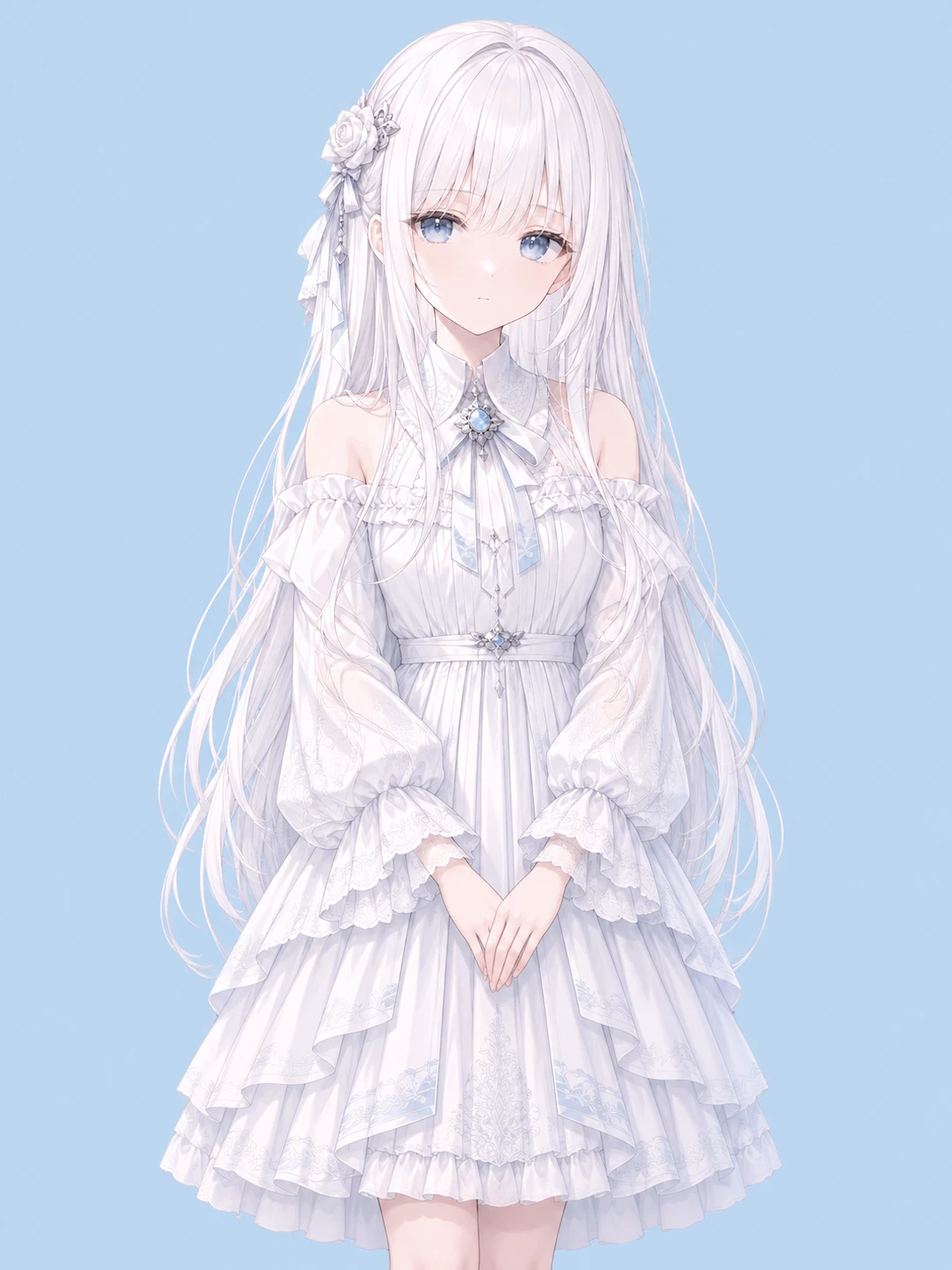
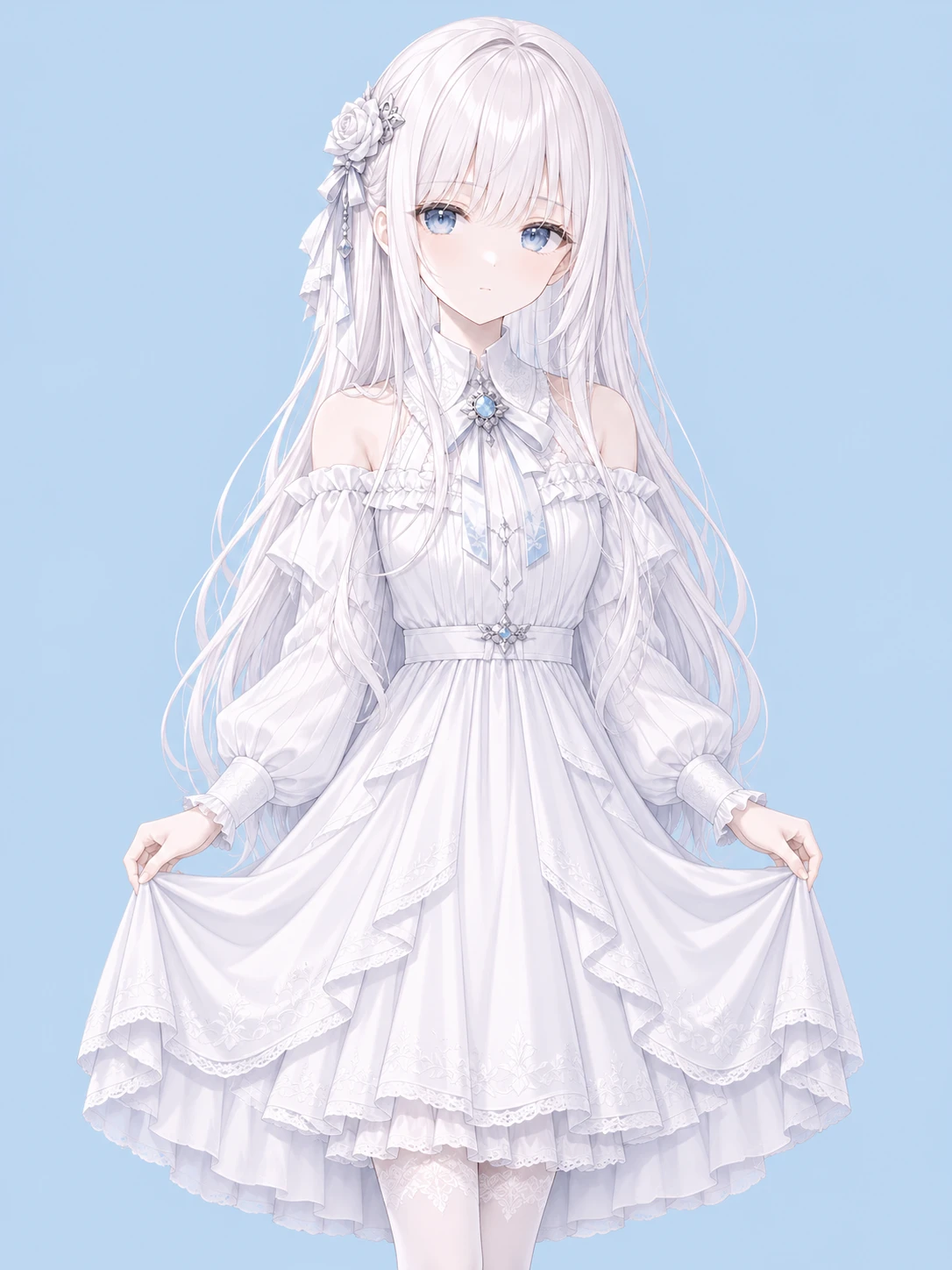
chore(preview): publish batch_10chars_tq portrait picker

Changed region(s): [[0.0608, 0.0311, 0.9116, 1.0], [0.4862, 0.0, 0.6077, 0.0932]]

diff --git a/portrait-picker/index.html b/portrait-picker/index.html
@@ -3,7 +3,7 @@
 <head>
 <meta charset="UTF-8">
 <meta name="viewport" content="width=device-width, initial-scale=1.0">
-<title>四分之三身像全重抽（5 角色 × 5 选 1）</title>
+<title>核心角色 10 组 × 5 选 1（四分之三身像 · 共 50 张）</title>
 <style>
 /* ==========================================================================
    《转生千金》立绘 5 选 1 交互审图工坊 · 棱镜冰晶雪瓷视觉体系
@@ -2172,7 +2172,7 @@ body.view-large .btn-zoom .zoom-txt {
 
 <div class="toast" id="toast" role="status" aria-live="polite"></div>
 
-<script id="showcase-data" type="application/json">{"batch_id":"batch_1_tq_5chars","batch_label":"四分之三身像 · 5角×5选1","title":"四分之三身像全重抽（5 角色 × 5 选 1）","subtitle":"统一 three-quarter length portrait 纯正向提示词 · 全量 5 角色 25 候选（含同源少年期）","characters":[{"id":"sylvia_teenage_normal","name":"希尔维亚 · 少女期","role_tag":"核心女主 · 少女阶段","sample_line":"既然重活一世，这一生总该按自己的步调，悠闲地过日子才对。","original":{"src":"img/sylvia_teenage_normal/original.webp","defect":"原图仅到束腰上半截，左右披发与白袖硬裁","metrics":{"width":1086,"height":1448,"aspect":"3:4","margin_l":0.0,"margin_r":0.0,"margin_t":2.3,"margin_b":0.0,"bg_std":0.0,"bg_hex":"transparent","is_transparent":true}},"candidates":[{"index":1,"label":"#01","src":"img/sylvia_teenage_normal/cand_01.webp","tag":"四分之三身像 #01","note":"纯正向 three-quarter length portrait 四分之三身像自然延展","metrics":{"width":1086,"height":1448,"aspect":"3:4","margin_l":15.4,"margin_r":15.4,"margin_t":1.3,"margin_b":0.0,"bg_std":0.6,"bg_hex":"#BCD6EF","is_transparent":false}},{"index":2,"label":"#02","src":"img/sylvia_teenage_normal/cand_02.webp","tag":"四分之三身像 #02","note":"纯正向 three-quarter length portrait 四分之三身像自然延展","metrics":{"width":1086,"height":1448,"aspect":"3:4","margin_l":16.3,"margin_r":15.6,"margin_t":1.1,"margin_b":0.0,"bg_std":0.7,"bg_hex":"#BAD6EF","is_transparent":false}},{"index":3,"label":"#03","src":"img/sylvia_teenage_normal/cand_03.webp","tag":"四分之三身像 #03","note":"纯正向 three-quarter length portrait 四分之三身像自然延展","metrics":{"width":1086,"height":1448,"aspect":"3:4","margin_l":17.2,"margin_r":16.3,"margin_t":2.1,"margin_b":0.0,"bg_std":0.6,"bg_hex":"#BCD7F1","is_transparent":false}},{"index":4,"label":"#04","src":"img/sylvia_teenage_normal/cand_04.webp","tag":"四分之三身像 #04","note":"纯正向 three-quarter length portrait 四分之三身像自然延展","metrics":{"width":1086,"height":1448,"aspect":"3:4","margin_l":12.4,"margin_r":12.8,"margin_t":1.4,"margin_b":0.0,"bg_std":0.6,"bg_hex":"#BAD7F1","is_transparent":false}},{"index":5,"label":"#05","src":"img/sylvia_teenage_normal/cand_05.webp","tag":"四分之三身像 #05","note":"纯正向 three-quarter length portrait 四分之三身像自然延展","metrics":{"width":1086,"height":1448,"aspect":"3:4","margin_l":17.2,"margin_r":16.5,"margin_t":1.8,"margin_b":0.0,"bg_std":0.6,"bg_hex":"#B9D5F0","is_transparent":false}}]},{"id":"alice_teenage_normal","name":"爱丽丝 · 少女期","role_tag":"公爵次女 · 少女阶段","sample_line":"姐姐，今天的风有些凉，披肩记得系紧些再出门。","original":{"src":"img/alice_teenage_normal/original.webp","defect":"原图仅胸上/高腰裁切，白纱蓬袖逼近左右边界","metrics":{"width":1086,"height":1448,"aspect":"3:4","margin_l":1.5,"margin_r":2.4,"margin_t":4.3,"margin_b":0.0,"bg_std":0.0,"bg_hex":"transparent","is_transparent":true}},"candidates":[{"index":1,"label":"#01","src":"img/alice_teenage_normal/cand_01.webp","tag":"四分之三身像 #01","note":"纯正向 three-quarter length portrait 四分之三身像自然延展","metrics":{"width":1086,"height":1448,"aspect":"3:4","margin_l":16.6,"margin_r":17.7,"margin_t":1.5,"margin_b":0.0,"bg_std":0.6,"bg_hex":"#BCD6F1","is_transparent":false}},{"index":2,"label":"#02","src":"img/alice_teenage_normal/cand_02.webp","tag":"四分之三身像 #02","note":"纯正向 three-quarter length portrait 四分之三身像自然延展","metrics":{"width":1086,"height":1448,"aspect":"3:4","margin_l":14.8,"margin_r":15.6,"margin_t":1.2,"margin_b":0.0,"bg_std":0.6,"bg_hex":"#BED8F0","is_transparent":false}},{"index":3,"label":"#03","src":"img/alice_teenage_normal/cand_03.webp","tag":"四分之三身像 #03","note":"纯正向 three-quarter length portrait 四分之三身像自然延展","metrics":{"width":1086,"height":1448,"aspect":"3:4","margin_l":15.1,"margin_r":16.7,"margin_t":1.2,"margin_b":0.0,"bg_std":0.6,"bg_hex":"#BED7F0","is_transparent":false}},{"index":4,"label":"#04","src":"img/alice_teenage_normal/cand_04.webp","tag":"四分之三身像 #04","note":"纯正向 three-quarter length portrait 四分之三身像自然延展","metrics":{"width":1086,"height":1448,"aspect":"3:4","margin_l":14.9,"margin_r":16.3,"margin_t":2.1,"margin_b":0.0,"bg_std":0.6,"bg_hex":"#BFD7F0","is_transparent":false}},{"index":5,"label":"#05","src":"img/alice_teenage_normal/cand_05.webp","tag":"四分之三身像 #05","note":"纯正向 three-quarter length portrait 四分之三身像自然延展","metrics":{"width":1086,"height":1448,"aspect":"3:4","margin_l":15.0,"margin_r":15.7,"margin_t":1.5,"margin_b":0.0,"bg_std":0.6,"bg_hex":"#BED8F1","is_transparent":false}}]},{"id":"beatrice_teenage_normal","name":"贝阿特丽丝 · 少女期","role_tag":"公爵长女 · 少女阶段","sample_line":"哈哈，既然是学院比试，可不许对我手下留情哦！","original":{"src":"img/beatrice_teenage_normal/original.webp","defect":"原图为 1:1 方画幅，顶边仅 4px 险切高马尾与王冠，腰下与双袖斜切","metrics":{"width":1254,"height":1254,"aspect":"1:1","margin_l":12.4,"margin_r":5.7,"margin_t":0.4,"margin_b":0.0,"bg_std":0.0,"bg_hex":"transparent","is_transparent":true}},"candidates":[{"index":1,"label":"#01","src":"img/beatrice_teenage_normal/cand_01.webp","tag":"四分之三身像 #01","note":"纯正向 three-quarter length portrait 四分之三身像自然延展（顶边+6%防切王冠）","metrics":{"width":1086,"height":1448,"aspect":"3:4","margin_l":14.0,"margin_r":9.9,"margin_t":2.8,"margin_b":0.0,"bg_std":0.6,"bg_hex":"#E1D4BF","is_transparent":false}},{"index":2,"label":"#02","src":"img/beatrice_teenage_normal/cand_02.webp","tag":"四分之三身像 #02","note":"纯正向 three-quarter length portrait 四分之三身像自然延展（顶边+6%防切王冠）","metrics":{"width":1086,"height":1448,"aspect":"3:4","margin_l":6.7,"margin_r":6.0,"margin_t":2.9,"margin_b":0.0,"bg_std":0.6,"bg_hex":"#E1D3BE","is_transparent":false}},{"index":3,"label":"#03","src":"img/beatrice_teenage_normal/cand_03.webp","tag":"四分之三身像 #03","note":"纯正向 three-quarter length portrait 四分之三身像自然延展（顶边+6%防切王冠）","metrics":{"width":1086,"height":1448,"aspect":"3:4","margin_l":8.7,"margin_r":13.4,"margin_t":3.0,"margin_b":0.0,"bg_std":0.7,"bg_hex":"#E1D3BE","is_transparent":false}},{"index":4,"label":"#04","src":"img/beatrice_teenage_normal/cand_04.webp","tag":"四分之三身像 #04","note":"纯正向 three-quarter length portrait 四分之三身像自然延展（顶边+6%防切王冠）","metrics":{"width":1086,"height":1448,"aspect":"3:4","margin_l":10.6,"margin_r":13.7,"margin_t":2.7,"margin_b":0.0,"bg_std":0.7,"bg_hex":"#E1D3BF","is_transparent":false}},{"index":5,"label":"#05","src":"img/beatrice_teenage_normal/cand_05.webp","tag":"四分之三身像 #05","note":"纯正向 three-quarter length portrait 四分之三身像自然延展（顶边+6%防切王冠）","metrics":{"width":1086,"height":1448,"aspect":"3:4","margin_l":10.5,"margin_r":11.0,"margin_t":3.1,"margin_b":0.0,"bg_std":0.7,"bg_hex":"#E0D3BE","is_transparent":false}}]},{"id":"sylvia_young_normal","name":"希尔维亚 · 少年期","role_tag":"核心女主 · 少年阶段","sample_line":"冰晶的魔力回路其实很听话，只要静下心来引导就好。","original":{"src":"img/sylvia_young_normal/original.webp","defect":"原图仅到腰下，左右飘散银发丝与披肩边缘紧贴画框","metrics":{"width":1086,"height":1448,"aspect":"3:4","margin_l":1.5,"margin_r":1.8,"margin_t":2.9,"margin_b":0.0,"bg_std":0.0,"bg_hex":"transparent","is_transparent":true}},"candidates":[{"index":1,"label":"#01","src":"img/sylvia_young_normal/cand_01.webp","tag":"四分之三身像 #01","note":"纯正向 three-quarter length portrait 四分之三身像自然延展（同源直引）","metrics":{"width":1086,"height":1448,"aspect":"3:4","margin_l":16.0,"margin_r":18.5,"margin_t":2.1,"margin_b":0.0,"bg_std":0.6,"bg_hex":"#C0DAF3","is_transparent":false}},{"index":2,"label":"#02","src":"img/sylvia_young_normal/cand_02.webp","tag":"四分之三身像 #02","note":"纯正向 three-quarter length portrait 四分之三身像自然延展（同源直引）","metrics":{"width":1086,"height":1448,"aspect":"3:4","margin_l":14.7,"margin_r":16.8,"margin_t":1.9,"margin_b":0.0,"bg_std":0.6,"bg_hex":"#C1DAF4","is_transparent":false}},{"index":3,"label":"#03","src":"img/sylvia_young_normal/cand_03.webp","tag":"四分之三身像 #03","note":"纯正向 three-quarter length portrait 四分之三身像自然延展（同源直引）","metrics":{"width":1086,"height":1448,"aspect":"3:4","margin_l":15.9,"margin_r":17.3,"margin_t":1.9,"margin_b":0.0,"bg_std":0.6,"bg_hex":"#C2DAF1","is_transparent":false}},{"index":4,"label":"#04","src":"img/sylvia_young_normal/cand_04.webp","tag":"四分之三身像 #04","note":"纯正向 three-quarter length portrait 四分之三身像自然延展（同源直引）","metrics":{"width":1086,"height":1448,"aspect":"3:4","margin_l":13.0,"margin_r":15.0,"margin_t":1.8,"margin_b":0.0,"bg_std":0.6,"bg_hex":"#C0DAF2","is_transparent":false}},{"index":5,"label":"#05","src":"img/sylvia_young_normal/cand_05.webp","tag":"四分之三身像 #05","note":"纯正向 three-quarter length portrait 四分之三身像自然延展（同源直引）","metrics":{"width":1086,"height":1448,"aspect":"3:4","margin_l":14.5,"margin_r":17.9,"margin_t":2.0,"margin_b":0.0,"bg_std":0.6,"bg_hex":"#BFD9F3","is_transparent":false}}]},{"id":"sylvia_disguise_normal","name":"希尔维亚 · 伪装（眷寒渔）","role_tag":"核心女主 · 黑发绿瞳变装","sample_line":"在外行走，还是低调些省事。叫我寒渔就行。","original":{"src":"img/sylvia_disguise_normal/original.webp","defect":"原图为 573×768 低分索引色 PNG，锯齿明显且左右黑发硬裁","metrics":{"width":573,"height":768,"aspect":"3:4","margin_l":0.0,"margin_r":0.0,"margin_t":2.3,"margin_b":0.0,"bg_std":0.0,"bg_hex":"transparent","is_transparent":true}},"candidates":[{"index":1,"label":"#01","src":"img/sylvia_disguise_normal/cand_01.webp","tag":"四分之三身像 #01","note":"纯正向 three-quarter length portrait 四分之三身像延展 · 2× 高清化重绘","metrics":{"width":1086,"height":1448,"aspect":"3:4","margin_l":21.6,"margin_r":22.7,"margin_t":1.7,"margin_b":0.0,"bg_std":0.6,"bg_hex":"#D5DFE7","is_transparent":false}},{"index":2,"label":"#02","src":"img/sylvia_disguise_normal/cand_02.webp","tag":"四分之三身像 #02","note":"纯正向 three-quarter length portrait 四分之三身像延展 · 2× 高清化重绘","metrics":{"width":1086,"height":1448,"aspect":"3:4","margin_l":18.4,"margin_r":19.4,"margin_t":2.0,"margin_b":0.0,"bg_std":0.6,"bg_hex":"#D4DFE7","is_transparent":false}},{"index":3,"label":"#03","src":"img/sylvia_disguise_normal/cand_03.webp","tag":"四分之三身像 #03","note":"纯正向 three-quarter length portrait 四分之三身像延展 · 2× 高清化重绘","metrics":{"width":1086,"height":1448,"aspect":"3:4","margin_l":18.6,"margin_r":19.3,"margin_t":1.7,"margin_b":0.0,"bg_std":0.6,"bg_hex":"#D5DFE7","is_transparent":false}},{"index":4,"label":"#04","src":"img/sylvia_disguise_normal/cand_04.webp","tag":"四分之三身像 #04","note":"纯正向 three-quarter length portrait 四分之三身像延展 · 2× 高清化重绘","metrics":{"width":1086,"height":1448,"aspect":"3:4","margin_l":19.2,"margin_r":16.9,"margin_t":1.5,"margin_b":0.0,"bg_std":0.6,"bg_hex":"#D1DEE6","is_transparent":false}},{"index":5,"label":"#05","src":"img/sylvia_disguise_normal/cand_05.webp","tag":"四分之三身像 #05","note":"纯正向 three-quarter length portrait 四分之三身像延展 · 2× 高清化重绘","metrics":{"width":1086,"height":1448,"aspect":"3:4","margin_l":18.1,"margin_r":19.8,"margin_t":1.2,"margin_b":0.0,"bg_std":0.6,"bg_hex":"#D4DFE6","is_transparent":false}}]}]}</script>
+<script id="showcase-data" type="application/json">{"batch_id":"batch_10chars_tq","batch_label":"10 角色 × 5 抽（50 张）","title":"核心角色 10 组 × 5 选 1（四分之三身像 · 共 50 张）","subtitle":"统一极简纯正向 three-quarter length portrait · 含爱丽丝小幅提裙礼、伪装希尔维亚纯文生图、幼童 4.5 头身与夏洛特去女仆单人化","characters":[{"id":"alice_teenage_normal","name":"爱丽丝 · 少女期","role_tag":"公爵次女 · 少女阶段（小幅提裙礼）","sample_line":"姐姐，今天的风有些凉，披肩记得系紧些再出门。","original":{"src":"img/alice_teenage_normal/original.webp","defect":"原图仅胸上/高腰裁切，白纱蓬袖逼近左右边界","metrics":{"width":1086,"height":1448,"aspect":"3:4","margin_l":1.5,"margin_r":2.4,"margin_t":4.3,"margin_b":0.0,"bg_std":0.0,"bg_hex":"transparent","is_transparent":true}},"candidates":[{"index":1,"label":"#01","src":"img/alice_teenage_normal/cand_01.webp","tag":"小幅双手提裙 #01","note":"优雅小幅度双手轻提裙侧，保持挺拔站姿","metrics":{"width":1086,"height":1448,"aspect":"3:4","margin_l":8.1,"margin_r":9.3,"margin_t":1.3,"margin_b":0.0,"bg_std":0.6,"bg_hex":"#BDD7F1","is_transparent":false}},{"index":2,"label":"#02","src":"img/alice_teenage_normal/cand_02.webp","tag":"小幅双手提裙 #02","note":"优雅小幅度双手轻提裙侧，保持挺拔站姿","metrics":{"width":1086,"height":1448,"aspect":"3:4","margin_l":16.9,"margin_r":16.8,"margin_t":1.4,"margin_b":1.5,"bg_std":0.6,"bg_hex":"#BAD6F0","is_transparent":false}},{"index":3,"label":"#03","src":"img/alice_teenage_normal/cand_03.webp","tag":"小幅双手提裙 #03","note":"优雅小幅度双手轻提裙侧，保持挺拔站姿","metrics":{"width":1086,"height":1448,"aspect":"3:4","margin_l":6.5,"margin_r":8.7,"margin_t":2.6,"margin_b":0.0,"bg_std":0.6,"bg_hex":"#BCD6EF","is_transparent":false}},{"index":4,"label":"#04","src":"img/alice_teenage_normal/cand_04.webp","tag":"小幅单手提裙 #04","note":"优雅小幅度单手轻提裙侧，另一臂自然垂落","metrics":{"width":1086,"height":1448,"aspect":"3:4","margin_l":15.7,"margin_r":25.3,"margin_t":1.9,"margin_b":1.2,"bg_std":0.7,"bg_hex":"#BBD5EF","is_transparent":false}},{"index":5,"label":"#05","src":"img/alice_teenage_normal/cand_05.webp","tag":"小幅单手提裙 #05","note":"优雅小幅度单手轻提裙侧，另一臂自然垂落","metrics":{"width":1086,"height":1448,"aspect":"3:4","margin_l":13.7,"margin_r":20.9,"margin_t":1.0,"margin_b":0.8,"bg_std":0.6,"bg_hex":"#BDD6EF","is_transparent":false}}]},{"id":"sylvia_disguise_normal","name":"希尔维亚 · 伪装（眷寒渔）","role_tag":"核心女主 · 黑发绿瞳变装（纯文生图高清重绘）","sample_line":"在外行走，还是低调些省事。叫我寒渔就行。","original":{"src":"img/sylvia_disguise_normal/original.webp","defect":"原图为 573×768 低分索引色 PNG，锯齿明显且左右黑发硬裁","metrics":{"width":573,"height":768,"aspect":"3:4","margin_l":0.0,"margin_r":0.0,"margin_t":2.3,"margin_b":0.0,"bg_std":0.0,"bg_hex":"transparent","is_transparent":true}},"candidates":[{"index":1,"label":"#01","src":"img/sylvia_disguise_normal/cand_01.webp","tag":"纯文生图重绘 #01","note":"纯文生图（无参考图）高清重绘四分之三身像","metrics":{"width":1086,"height":1448,"aspect":"3:4","margin_l":10.7,"margin_r":13.4,"margin_t":0.0,"margin_b":0.0,"bg_std":0.6,"bg_hex":"#D0DCE4","is_transparent":false}},{"index":2,"label":"#02","src":"img/sylvia_disguise_normal/cand_02.webp","tag":"纯文生图重绘 #02","note":"纯文生图（无参考图）高清重绘四分之三身像","metrics":{"width":1086,"height":1448,"aspect":"3:4","margin_l":7.7,"margin_r":13.4,"margin_t":0.6,"margin_b":0.0,"bg_std":0.6,"bg_hex":"#CFDBE3","is_transparent":false}},{"index":3,"label":"#03","src":"img/sylvia_disguise_normal/cand_03.webp","tag":"纯文生图重绘 #03","note":"纯文生图（无参考图）高清重绘四分之三身像","metrics":{"width":1086,"height":1448,"aspect":"3:4","margin_l":12.3,"margin_r":13.9,"margin_t":0.0,"margin_b":0.0,"bg_std":0.6,"bg_hex":"#CFDBE4","is_transparent":false}},{"index":4,"label":"#04","src":"img/sylvia_disguise_normal/cand_04.webp","tag":"纯文生图重绘 #04","note":"纯文生图（无参考图）高清重绘四分之三身像","metrics":{"width":1086,"height":1448,"aspect":"3:4","margin_l":6.8,"margin_r":8.3,"margin_t":0.0,"margin_b":0.0,"bg_std":0.7,"bg_hex":"#D3DCE3","is_transparent":false}},{"index":5,"label":"#05","src":"img/sylvia_disguise_normal/cand_05.webp","tag":"纯文生图重绘 #05","note":"纯文生图（无参考图）高清重绘四分之三身像","metrics":{"width":1086,"height":1448,"aspect":"3:4","margin_l":8.6,"margin_r":12.1,"margin_t":0.8,"margin_b":0.0,"bg_std":0.6,"bg_hex":"#D1DBE2","is_transparent":false}}]},{"id":"sylvia_child_normal","name":"希尔维亚 · 幼年期","role_tag":"核心女主 · 5–6 岁幼童阶段","sample_line":"唔……既然变成了公爵家的小千金，那先舒舒服服睡个午觉吧。","original":{"src":"img/sylvia_child_normal/original.webp","defect":"原图为 2:3 窄画幅半身截断，需延展为 3:4 幼童四分之三身像","metrics":{"width":1024,"height":1536,"aspect":"2:3","margin_l":10.4,"margin_r":10.0,"margin_t":3.3,"margin_b":0.0,"bg_std":0.0,"bg_hex":"transparent","is_transparent":true}},"candidates":[{"index":1,"label":"#01","src":"img/sylvia_child_normal/cand_01.webp","tag":"幼童四分之三身像 #01","note":"5–6 岁 4.5 头身幼童比例自然延展","metrics":{"width":1086,"height":1448,"aspect":"3:4","margin_l":19.2,"margin_r":20.5,"margin_t":2.2,"margin_b":0.0,"bg_std":0.6,"bg_hex":"#BFD9F3","is_transparent":false}},{"index":2,"label":"#02","src":"img/sylvia_child_normal/cand_02.webp","tag":"幼童四分之三身像 #02","note":"5–6 岁 4.5 头身幼童比例自然延展","metrics":{"width":1086,"height":1448,"aspect":"3:4","margin_l":19.9,"margin_r":22.2,"margin_t":2.5,"margin_b":0.0,"bg_std":0.6,"bg_hex":"#BFD9F2","is_transparent":false}},{"index":3,"label":"#03","src":"img/sylvia_child_normal/cand_03.webp","tag":"幼童四分之三身像 #03","note":"5–6 岁 4.5 头身幼童比例自然延展","metrics":{"width":1086,"height":1448,"aspect":"3:4","margin_l":21.8,"margin_r":22.6,"margin_t":1.6,"margin_b":1.3,"bg_std":0.6,"bg_hex":"#BDD8F2","is_transparent":false}},{"index":4,"label":"#04","src":"img/sylvia_child_normal/cand_04.webp","tag":"幼童四分之三身像 #04","note":"5–6 岁 4.5 头身幼童比例自然延展","metrics":{"width":1086,"height":1448,"aspect":"3:4","margin_l":18.0,"margin_r":19.9,"margin_t":1.7,"margin_b":0.0,"bg_std":0.6,"bg_hex":"#C0DAF3","is_transparent":false}},{"index":5,"label":"#05","src":"img/sylvia_child_normal/cand_05.webp","tag":"幼童四分之三身像 #05","note":"5–6 岁 4.5 头身幼童比例自然延展","metrics":{"width":1086,"height":1448,"aspect":"3:4","margin_l":19.5,"margin_r":20.1,"margin_t":1.2,"margin_b":0.0,"bg_std":0.6,"bg_hex":"#BFDAF4","is_transparent":false}}]},{"id":"alice_child_normal","name":"爱丽丝 · 幼年期","role_tag":"公爵次女 · 5–6 岁幼童阶段","sample_line":"姐姐……我可以牵着你的衣角一起去花园吗？","original":{"src":"img/alice_child_normal/original.webp","defect":"原图为 2:3 窄画幅半身且顶边偏紧，需延展为 3:4 幼童四分之三身像","metrics":{"width":843,"height":1264,"aspect":"2:3","margin_l":5.9,"margin_r":6.4,"margin_t":1.9,"margin_b":0.0,"bg_std":0.0,"bg_hex":"transparent","is_transparent":true}},"candidates":[{"index":1,"label":"#01","src":"img/alice_child_normal/cand_01.webp","tag":"幼童四分之三身像 #01","note":"5–6 岁 4.5 头身幼童比例自然延展","metrics":{"width":1086,"height":1448,"aspect":"3:4","margin_l":22.8,"margin_r":23.7,"margin_t":1.8,"margin_b":1.2,"bg_std":0.6,"bg_hex":"#BDD7F0","is_transparent":false}},{"index":2,"label":"#02","src":"img/alice_child_normal/cand_02.webp","tag":"幼童四分之三身像 #02","note":"5–6 岁 4.5 头身幼童比例自然延展","metrics":{"width":1086,"height":1448,"aspect":"3:4","margin_l":16.2,"margin_r":17.1,"margin_t":1.7,"margin_b":0.0,"bg_std":0.7,"bg_hex":"#BFD8F0","is_transparent":false}},{"index":3,"label":"#03","src":"img/alice_child_normal/cand_03.webp","tag":"幼童四分之三身像 #03","note":"5–6 岁 4.5 头身幼童比例自然延展","metrics":{"width":1086,"height":1448,"aspect":"3:4","margin_l":21.5,"margin_r":24.1,"margin_t":1.0,"margin_b":0.9,"bg_std":0.6,"bg_hex":"#BCD7F1","is_transparent":false}},{"index":4,"label":"#04","src":"img/alice_child_normal/cand_04.webp","tag":"幼童四分之三身像 #04","note":"5–6 岁 4.5 头身幼童比例自然延展","metrics":{"width":1086,"height":1448,"aspect":"3:4","margin_l":18.0,"margin_r":19.7,"margin_t":2.3,"margin_b":0.0,"bg_std":0.6,"bg_hex":"#BBD7F1","is_transparent":false}},{"index":5,"label":"#05","src":"img/alice_child_normal/cand_05.webp","tag":"幼童四分之三身像 #05","note":"5–6 岁 4.5 头身幼童比例自然延展","metrics":{"width":1086,"height":1448,"aspect":"3:4","margin_l":20.0,"margin_r":21.7,"margin_t":1.8,"margin_b":1.5,"bg_std":0.7,"bg_hex":"#BDD8F0","is_transparent":false}}]},{"id":"beatrice_child_normal","name":"贝阿特丽丝 · 幼年期","role_tag":"公爵长女 · 5–6 岁幼童阶段","sample_line":"希尔维亚、爱丽丝！今天我也要当最厉害的姐姐保护你们！","original":{"src":"img/beatrice_child_normal/original.webp","defect":"原图为 1:1 方画幅且顶仅 4px 险切红丝带，下身截断","metrics":{"width":1254,"height":1254,"aspect":"1:1","margin_l":7.8,"margin_r":8.9,"margin_t":0.4,"margin_b":0.0,"bg_std":0.0,"bg_hex":"transparent","is_transparent":true}},"candidates":[{"index":1,"label":"#01","src":"img/beatrice_child_normal/cand_01.webp","tag":"幼童四分之三身像 #01","note":"5–6 岁 4.5 头身幼童比例自然延展，顶留 6% 护红丝带","metrics":{"width":1086,"height":1448,"aspect":"3:4","margin_l":16.3,"margin_r":17.3,"margin_t":1.0,"margin_b":1.3,"bg_std":0.6,"bg_hex":"#E1D3C0","is_transparent":false}},{"index":2,"label":"#02","src":"img/beatrice_child_normal/cand_02.webp","tag":"幼童四分之三身像 #02","note":"5–6 岁 4.5 头身幼童比例自然延展，顶留 6% 护红丝带","metrics":{"width":1086,"height":1448,"aspect":"3:4","margin_l":10.6,"margin_r":13.4,"margin_t":4.0,"margin_b":0.0,"bg_std":0.6,"bg_hex":"#E1D4BF","is_transparent":false}},{"index":3,"label":"#03","src":"img/beatrice_child_normal/cand_03.webp","tag":"幼童四分之三身像 #03","note":"5–6 岁 4.5 头身幼童比例自然延展，顶留 6% 护红丝带","metrics":{"width":1086,"height":1448,"aspect":"3:4","margin_l":13.0,"margin_r":16.9,"margin_t":0.8,"margin_b":0.8,"bg_std":0.7,"bg_hex":"#E0D3BF","is_transparent":false}},{"index":4,"label":"#04","src":"img/beatrice_child_normal/cand_04.webp","tag":"幼童四分之三身像 #04","note":"5–6 岁 4.5 头身幼童比例自然延展，顶留 6% 护红丝带","metrics":{"width":1086,"height":1448,"aspect":"3:4","margin_l":11.1,"margin_r":11.6,"margin_t":2.2,"margin_b":0.0,"bg_std":0.6,"bg_hex":"#E1D4C0","is_transparent":false}},{"index":5,"label":"#05","src":"img/beatrice_child_normal/cand_05.webp","tag":"幼童四分之三身像 #05","note":"5–6 岁 4.5 头身幼童比例自然延展，顶留 6% 护红丝带","metrics":{"width":1086,"height":1448,"aspect":"3:4","margin_l":10.6,"margin_r":10.8,"margin_t":2.0,"margin_b":0.0,"bg_std":0.8,"bg_hex":"#E3D5C1","is_transparent":false}}]},{"id":"alice_young_normal","name":"爱丽丝 · 少年期","role_tag":"公爵次女 · 少年阶段","sample_line":"姐姐的魔力总是那么温暖……我也会努力跟上大家的脚步。","original":{"src":"img/alice_young_normal/original.webp","defect":"原图顶仅 16px 略紧且左右白发贴边，腰下截断","metrics":{"width":1086,"height":1448,"aspect":"3:4","margin_l":0.8,"margin_r":0.9,"margin_t":1.1,"margin_b":0.0,"bg_std":0.0,"bg_hex":"transparent","is_transparent":true}},"candidates":[{"index":1,"label":"#01","src":"img/alice_young_normal/cand_01.webp","tag":"四分之三身像 #01","note":"纯正向 three-quarter length portrait 自然延展","metrics":{"width":1086,"height":1448,"aspect":"3:4","margin_l":15.8,"margin_r":16.6,"margin_t":1.7,"margin_b":0.0,"bg_std":0.6,"bg_hex":"#BCD7F1","is_transparent":false}},{"index":2,"label":"#02","src":"img/alice_young_normal/cand_02.webp","tag":"四分之三身像 #02","note":"纯正向 three-quarter length portrait 自然延展","metrics":{"width":1086,"height":1448,"aspect":"3:4","margin_l":17.0,"margin_r":18.6,"margin_t":1.4,"margin_b":0.0,"bg_std":0.7,"bg_hex":"#BFD7EF","is_transparent":false}},{"index":3,"label":"#03","src":"img/alice_young_normal/cand_03.webp","tag":"四分之三身像 #03","note":"纯正向 three-quarter length portrait 自然延展","metrics":{"width":1086,"height":1448,"aspect":"3:4","margin_l":16.0,"margin_r":19.4,"margin_t":1.7,"margin_b":0.0,"bg_std":0.6,"bg_hex":"#BDD7F0","is_transparent":false}},{"index":4,"label":"#04","src":"img/alice_young_normal/cand_04.webp","tag":"四分之三身像 #04","note":"纯正向 three-quarter length portrait 自然延展","metrics":{"width":1086,"height":1448,"aspect":"3:4","margin_l":15.0,"margin_r":15.9,"margin_t":3.0,"margin_b":0.0,"bg_std":0.6,"bg_hex":"#BDD7F0","is_transparent":false}},{"index":5,"label":"#05","src":"img/alice_young_normal/cand_05.webp","tag":"四分之三身像 #05","note":"纯正向 three-quarter length portrait 自然延展","metrics":{"width":1086,"height":1448,"aspect":"3:4","margin_l":16.5,"margin_r":18.6,"margin_t":1.8,"margin_b":0.0,"bg_std":0.6,"bg_hex":"#BDD8F1","is_transparent":false}}]},{"id":"beatrice_young_normal","name":"贝阿特丽丝 · 少年期","role_tag":"公爵长女 · 少年阶段","sample_line":"走吧！今天练完剑术，我们就去院子里喝下午茶！","original":{"src":"img/beatrice_young_normal/original.webp","defect":"原图仅及高腰裁切，右侧蓬袖与长发逼近边界","metrics":{"width":1086,"height":1448,"aspect":"3:4","margin_l":1.3,"margin_r":0.0,"margin_t":2.3,"margin_b":0.0,"bg_std":0.0,"bg_hex":"transparent","is_transparent":true}},"candidates":[{"index":1,"label":"#01","src":"img/beatrice_young_normal/cand_01.webp","tag":"四分之三身像 #01","note":"纯正向 three-quarter length portrait 自然延展","metrics":{"width":1086,"height":1448,"aspect":"3:4","margin_l":8.4,"margin_r":9.9,"margin_t":1.0,"margin_b":0.0,"bg_std":0.8,"bg_hex":"#E1D3BC","is_transparent":false}},{"index":2,"label":"#02","src":"img/beatrice_young_normal/cand_02.webp","tag":"四分之三身像 #02","note":"纯正向 three-quarter length portrait 自然延展","metrics":{"width":1086,"height":1448,"aspect":"3:4","margin_l":13.1,"margin_r":14.3,"margin_t":1.5,"margin_b":0.0,"bg_std":0.6,"bg_hex":"#E1D2BD","is_transparent":false}},{"index":3,"label":"#03","src":"img/beatrice_young_normal/cand_03.webp","tag":"四分之三身像 #03","note":"纯正向 three-quarter length portrait 自然延展","metrics":{"width":1086,"height":1448,"aspect":"3:4","margin_l":12.3,"margin_r":10.6,"margin_t":1.0,"margin_b":0.0,"bg_std":0.7,"bg_hex":"#E1D4BF","is_transparent":false}},{"index":4,"label":"#04","src":"img/beatrice_young_normal/cand_04.webp","tag":"四分之三身像 #04","note":"纯正向 three-quarter length portrait 自然延展","metrics":{"width":1086,"height":1448,"aspect":"3:4","margin_l":8.8,"margin_r":13.0,"margin_t":1.4,"margin_b":0.0,"bg_std":0.7,"bg_hex":"#E1D3BE","is_transparent":false}},{"index":5,"label":"#05","src":"img/beatrice_young_normal/cand_05.webp","tag":"四分之三身像 #05","note":"纯正向 three-quarter length portrait 自然延展","metrics":{"width":1086,"height":1448,"aspect":"3:4","margin_l":8.9,"margin_r":8.5,"margin_t":1.0,"margin_b":0.0,"bg_std":0.6,"bg_hex":"#E2D3BE","is_transparent":false}}]},{"id":"aino_normal","name":"艾诺","role_tag":"极北高冷冰法 · 学院前辈","sample_line":"魔力的流向骗不了人。若想精进，就先把呼吸放稳。","original":{"src":"img/aino_normal/original.webp","defect":"原图为 2:3 窄画幅半身且左右深蓝法袍贴边硬裁","metrics":{"width":1024,"height":1536,"aspect":"2:3","margin_l":0.0,"margin_r":0.0,"margin_t":2.6,"margin_b":0.0,"bg_std":0.0,"bg_hex":"transparent","is_transparent":true}},"candidates":[{"index":1,"label":"#01","src":"img/aino_normal/cand_01.webp","tag":"四分之三身像 #01","note":"保持冷淡高冷法师大衣气质，自然延展","metrics":{"width":1086,"height":1448,"aspect":"3:4","margin_l":16.9,"margin_r":17.0,"margin_t":1.2,"margin_b":0.0,"bg_std":0.7,"bg_hex":"#C2D4E9","is_transparent":false}},{"index":2,"label":"#02","src":"img/aino_normal/cand_02.webp","tag":"四分之三身像 #02","note":"保持冷淡高冷法师大衣气质，自然延展","metrics":{"width":1086,"height":1448,"aspect":"3:4","margin_l":18.0,"margin_r":15.3,"margin_t":1.2,"margin_b":0.0,"bg_std":0.6,"bg_hex":"#C1D3E9","is_transparent":false}},{"index":3,"label":"#03","src":"img/aino_normal/cand_03.webp","tag":"四分之三身像 #03","note":"保持冷淡高冷法师大衣气质，自然延展","metrics":{"width":1086,"height":1448,"aspect":"3:4","margin_l":17.3,"margin_r":15.8,"margin_t":1.7,"margin_b":0.0,"bg_std":0.6,"bg_hex":"#C1D4E9","is_transparent":false}},{"index":4,"label":"#04","src":"img/aino_normal/cand_04.webp","tag":"四分之三身像 #04","note":"保持冷淡高冷法师大衣气质，自然延展","metrics":{"width":1086,"height":1448,"aspect":"3:4","margin_l":17.7,"margin_r":16.0,"margin_t":1.2,"margin_b":0.0,"bg_std":0.6,"bg_hex":"#C3D5E9","is_transparent":false}},{"index":5,"label":"#05","src":"img/aino_normal/cand_05.webp","tag":"四分之三身像 #05","note":"保持冷淡高冷法师大衣气质，自然延展","metrics":{"width":1086,"height":1448,"aspect":"3:4","margin_l":16.4,"margin_r":15.8,"margin_t":1.9,"margin_b":0.0,"bg_std":0.8,"bg_hex":"#C1D3EA","is_transparent":false}}]},{"id":"jilan_normal","name":"霁岚","role_tag":"澄岚武馆少主 · 爽朗刀客","sample_line":"哈哈哈！光说不练可不行，来过两招试试手气吧！","original":{"src":"img/jilan_normal/original.webp","defect":"原图为 2:3 窄画幅半身且右侧马尾与佩刀贴边","metrics":{"width":1024,"height":1536,"aspect":"2:3","margin_l":2.6,"margin_r":0.0,"margin_t":2.1,"margin_b":0.0,"bg_std":0.0,"bg_hex":"transparent","is_transparent":true}},"candidates":[{"index":1,"label":"#01","src":"img/jilan_normal/cand_01.webp","tag":"四分之三身像 #01","note":"保持爽朗抱臂武道服与腰间佩刀气质，自然延展","metrics":{"width":1086,"height":1448,"aspect":"3:4","margin_l":28.0,"margin_r":26.0,"margin_t":0.8,"margin_b":0.9,"bg_std":0.6,"bg_hex":"#DAD9E6","is_transparent":false}},{"index":2,"label":"#02","src":"img/jilan_normal/cand_02.webp","tag":"四分之三身像 #02","note":"保持爽朗抱臂武道服与腰间佩刀气质，自然延展","metrics":{"width":1086,"height":1448,"aspect":"3:4","margin_l":22.2,"margin_r":18.7,"margin_t":1.5,"margin_b":0.0,"bg_std":0.6,"bg_hex":"#D9D8E6","is_transparent":false}},{"index":3,"label":"#03","src":"img/jilan_normal/cand_03.webp","tag":"四分之三身像 #03","note":"保持爽朗抱臂武道服与腰间佩刀气质，自然延展","metrics":{"width":1086,"height":1448,"aspect":"3:4","margin_l":26.7,"margin_r":23.8,"margin_t":1.2,"margin_b":0.0,"bg_std":0.6,"bg_hex":"#D9D8E6","is_transparent":false}},{"index":4,"label":"#04","src":"img/jilan_normal/cand_04.webp","tag":"四分之三身像 #04","note":"保持爽朗抱臂武道服与腰间佩刀气质，自然延展","metrics":{"width":1086,"height":1448,"aspect":"3:4","margin_l":23.9,"margin_r":21.0,"margin_t":0.7,"margin_b":0.0,"bg_std":0.6,"bg_hex":"#DAD9E7","is_transparent":false}},{"index":5,"label":"#05","src":"img/jilan_normal/cand_05.webp","tag":"四分之三身像 #05","note":"保持爽朗抱臂武道服与腰间佩刀气质，自然延展","metrics":{"width":1086,"height":1448,"aspect":"3:4","margin_l":24.1,"margin_r":20.9,"margin_t":0.8,"margin_b":0.0,"bg_std":0.6,"bg_hex":"#DBDAE8","is_transparent":false}}]},{"id":"charlotte_normal","name":"夏洛特","role_tag":"阿斯拉贵族千金 · 高傲名媛","sample_line":"哼，既然敢站在我面前，就拿出配得上贵族仪态的本事来吧。","original":{"src":"img/charlotte_normal/original.webp","defect":"原图为 1:1 方画幅且背景夹带左右 2 名多余女仆，顶边偏紧","metrics":{"width":1254,"height":1254,"aspect":"1:1","margin_l":2.0,"margin_r":1.4,"margin_t":1.3,"margin_b":0.0,"bg_std":0.0,"bg_hex":"transparent","is_transparent":true}},"candidates":[{"index":1,"label":"#01","src":"img/charlotte_normal/cand_01.webp","tag":"单人四分之三身像 #01","note":"已抹除左右背景女仆，单人高傲站姿自然延展","metrics":{"width":1086,"height":1448,"aspect":"3:4","margin_l":16.2,"margin_r":17.3,"margin_t":3.0,"margin_b":0.0,"bg_std":0.7,"bg_hex":"#DED2BF","is_transparent":false}},{"index":2,"label":"#02","src":"img/charlotte_normal/cand_02.webp","tag":"单人四分之三身像 #02","note":"已抹除左右背景女仆，单人高傲站姿自然延展","metrics":{"width":1086,"height":1448,"aspect":"3:4","margin_l":11.1,"margin_r":11.2,"margin_t":2.3,"margin_b":0.0,"bg_std":0.7,"bg_hex":"#DDD2C1","is_transparent":false}},{"index":3,"label":"#03","src":"img/charlotte_normal/cand_03.webp","tag":"单人四分之三身像 #03","note":"已抹除左右背景女仆，单人高傲站姿自然延展","metrics":{"width":1086,"height":1448,"aspect":"3:4","margin_l":15.9,"margin_r":17.4,"margin_t":4.1,"margin_b":0.0,"bg_std":0.8,"bg_hex":"#DDD2C2","is_transparent":false}},{"index":4,"label":"#04","src":"img/charlotte_normal/cand_04.webp","tag":"单人四分之三身像 #04","note":"已抹除左右背景女仆，单人高傲站姿自然延展","metrics":{"width":1086,"height":1448,"aspect":"3:4","margin_l":15.3,"margin_r":18.1,"margin_t":2.3,"margin_b":0.0,"bg_std":0.8,"bg_hex":"#DCD2C1","is_transparent":false}},{"index":5,"label":"#05","src":"img/charlotte_normal/cand_05.webp","tag":"单人四分之三身像 #05","note":"已抹除左右背景女仆，单人高傲站姿自然延展","metrics":{"width":1086,"height":1448,"aspect":"3:4","margin_l":15.5,"margin_r":16.9,"margin_t":3.0,"margin_b":0.0,"bg_std":0.6,"bg_hex":"#DDD1C0","is_transparent":false}}]}]}</script>
 <script>
 (function () {
   "use strict";
